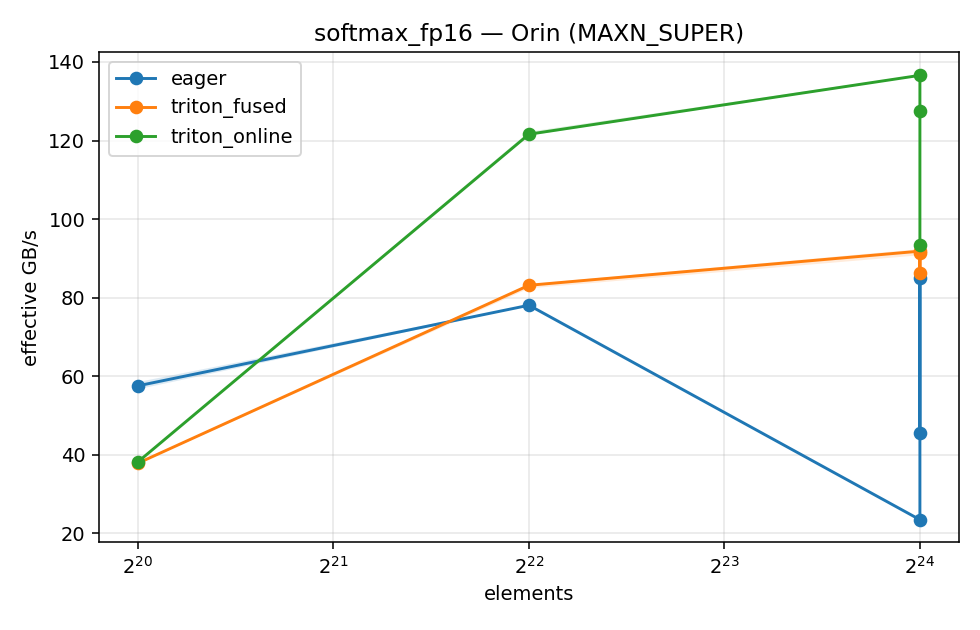
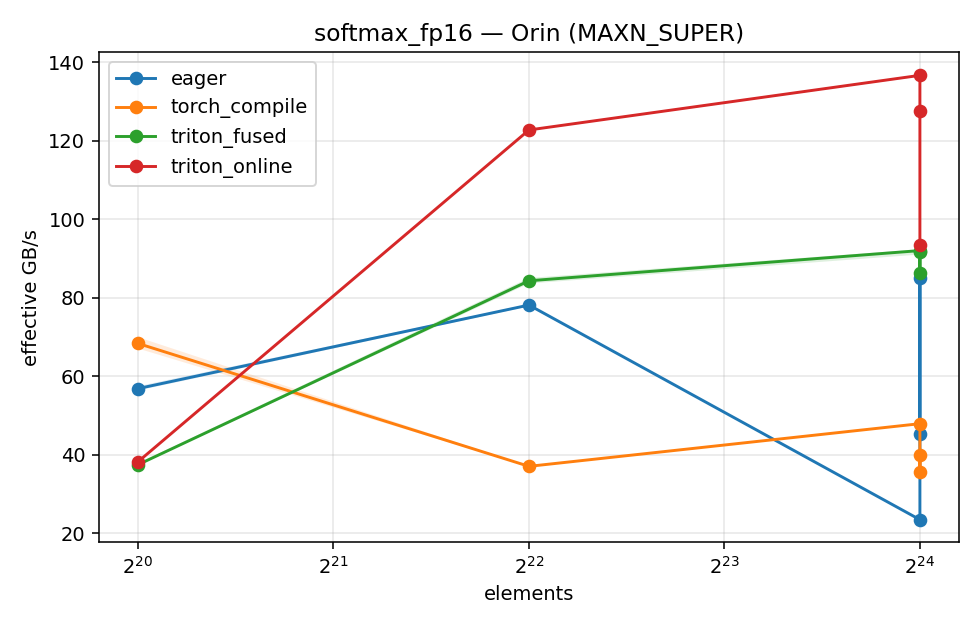
M4 results: torch.compile steady-state baseline lands in the softmax table
Module E's code-read prediction held: torch.compile wins narrow rows
outright (fp16 0.061 ms at 4096x256 via XBLOCK row batching) and trails
the hand kernel ~2x everywhere else. Fresh single-session numbers for
all four implementations; plots regenerated. Roadmap M0-M4 complete.

diff --git a/README.md b/README.md
@@ -77,21 +77,26 @@ arrives on schedule. Below ~2²⁰ elements both are launch-bound and the gap na
 
 ### Softmax: fused single-block and online variants vs `torch.softmax` (median ms)
 
-| shape | fp16 fused | fp16 online | fp16 eager | fp32 fused | fp32 online | fp32 eager |
-|---|---|---|---|---|---|---|
-| 4096×256 | 0.111 | 0.165 | **0.073** | 0.128 | 0.176 | **0.100** |
-| 4096×1024 | **0.202** | 0.207 | 0.215 | 0.363 | 0.363 | 0.361 |
-| 4096×4096 | **0.731** | 0.737 | 2.859 | **1.407** | 1.912 | 3.044 |
-| 16384×1024 | **0.778** | 0.790 | 0.789 | 1.411 | 1.407 | 1.413 |
-| 1024×16384 | **0.734** | 1.077 | 1.478 | **1.439** | 2.116 | 2.195 |
+| shape | fp16 fused | fp16 online | fp16 eager | fp16 compile | fp32 fused | fp32 online | fp32 eager | fp32 compile |
+|---|---|---|---|---|---|---|---|---|
+| 4096×256 | 0.112 | 0.165 | 0.074 | **0.061** | 0.129 | 0.176 | **0.100** | 0.128 |
+| 4096×1024 | **0.199** | 0.205 | 0.215 | 0.453 | **0.361** | 0.362 | 0.360 | 0.432 |
+| 4096×4096 | **0.729** | 0.736 | 2.861 | 1.400 | **1.412** | 1.912 | 3.059 | 2.994 |
+| 16384×1024 | **0.778** | 0.789 | 0.789 | 1.890 | 1.414 | 1.408 | **1.402** | 1.634 |
+| 1024×16384 | **0.733** | 1.076 | 1.479 | 1.680 | **1.439** | 2.116 | 2.184 | 3.067 |
 
-Honest reading, both directions:
+(`compile` = `torch.compile` steady state, compiled per shape, warm — the M4 baseline.)
 
-- **Narrow rows (256 cols): eager wins.** One program per 256-wide row leaves the GPU
-  under-occupied; `torch.softmax` batches better there. My kernels earn their keep from
-  ~1K cols up.
-- **Wide rows are the win**: 3.9× over eager at 4096×4096 fp16, where torch's fp16 path
-  collapses to ~23 GB/s while the fused kernel holds ~92 GB/s (90% of peak).
+Honest reading, all directions:
+
+- **Narrow rows (256 cols): `torch.compile` wins outright** (fp16 0.061 ms — faster than
+  eager and 1.8× faster than my kernel). [Module E](notes/e-inductor/README.md) *predicted
+  this before it was measured*: reading Inductor's generated kernel showed it batches
+  `XBLOCK` rows per program where mine strands a whole program on 256 columns. The
+  prediction came from the code read; the CSV confirmed it.
+- **Everywhere else the hand kernel leads `torch.compile` by ~2×** (fp16: 0.73 vs 1.40 at
+  4096×4096, 0.78 vs 1.89 at 16384×1024) — and leads eager by up to 3.9× at wide rows,
+  where torch's fp16 path collapses to ~23 GB/s while the fused kernel holds ~92 GB/s.
 - **The online variant matches the single-block kernel** until the row stops fitting in
   cache — its second read pass is nearly free at 4096 cols (L2 hit), and costs real time at
   16384 (fp32: 2.12 ms vs 1.44). Its GB/s column in the CSVs counts 3 passes of actual
@@ -166,7 +171,9 @@ Public notes with one artifact each — see [`notes/README.md`](notes/README.md)
 - [x] **M3** — study notes A–D complete ([A](notes/a-gpu-execution/README.md) ·
   [B](notes/b-triton-model/README.md) · [C](notes/c-llvm/README.md) ·
   [D](notes/d-lowering/README.md))
-- [ ] **M4** — Dynamo/Inductor module, `torch.compile` steady-state baseline, perf plots
+- [x] **M4** — [Dynamo/Inductor module](notes/e-inductor/README.md) with committed
+  explain/graph-break artifacts, `torch.compile` steady-state baseline in the softmax
+  table, perf plots
 
 ## Toolchain notes
 
